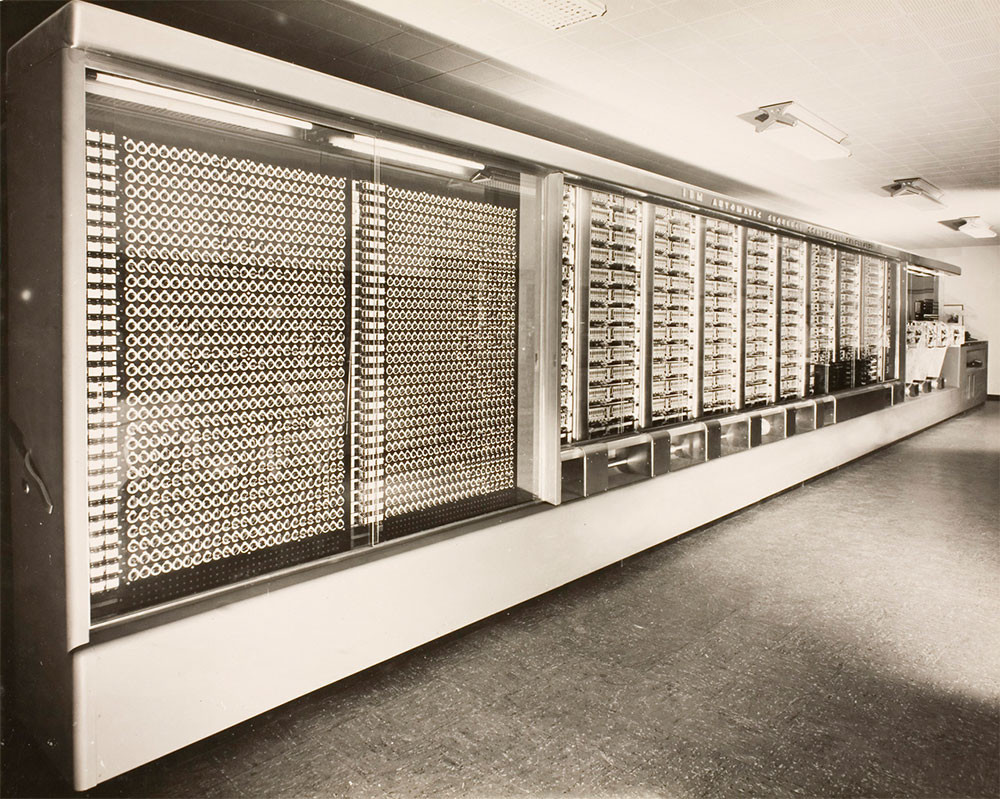
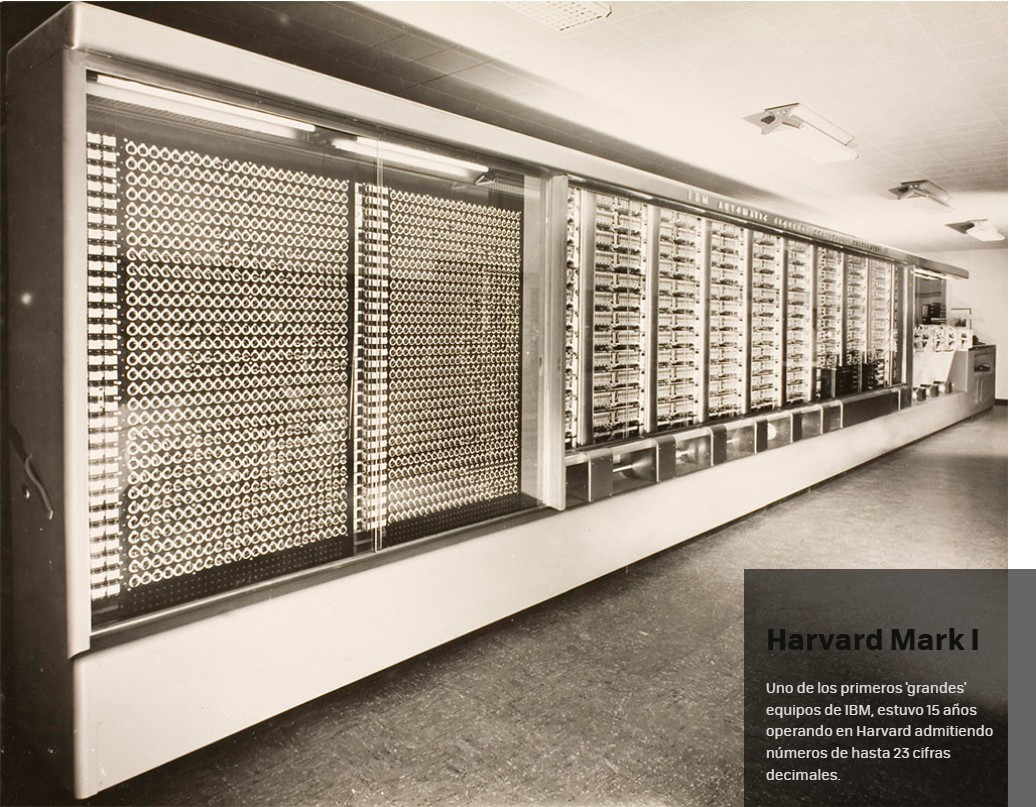
redes1

diff --git a/md/redes_01.md b/md/redes_01.md
@@ -9,11 +9,6 @@ Una **red informática** es un conjunto de dispositivos conectados entre sí que
 📌 *Ejemplo sencillo:*
 Imagina que en tu casa tienes varios dispositivos conectados al WiFi. Todos ellos pueden navegar por Internet y, en algunos casos, compartir archivos o impresoras. ¡Eso ya es una red!
 
-<div align="center">
-    <img src="/primero-bach/img/redes-informaticas.jpg" width="40%">
-</div>
-
-
 ### 1.1.1 ¿Para qué sirven las redes?
 Las redes informáticas tienen muchísimos usos, pero algunos de los más importantes son:
 - Compartir información (como documentos en la nube).
@@ -51,7 +46,10 @@ Estos mainframes ocupaban salas enteras, generaban mucho calor y requerían pers
 Uno de los primeros mainframes de la historia fue el **Harvard Mark I (1944)**, una enorme máquina electromecánica diseñada para realizar cálculos matemáticos complejos de manera automática. Sin embargo, su uso no era nada sencillo.
 
 <div align="center">
-    <img src="/primero-bach/img/mark_1.jpg" width="40%">
+    <figure>
+        <img src="/primero-bach/img/mark1_2.jpg" width="50%">
+        <figcaption><i>El Harvard Mark I (1944) fue un ordenador electromecánico creado por IBM y la Universidad de Harvard. Ubicado Massachusetts, usaba tarjetas perforadas y relés para automatizar cálculos matemáticos complejos.</i><figcaption>
+    </figure>
 </div>
 
 **¿Cómo trabajaba un programador en el Mark I?**
